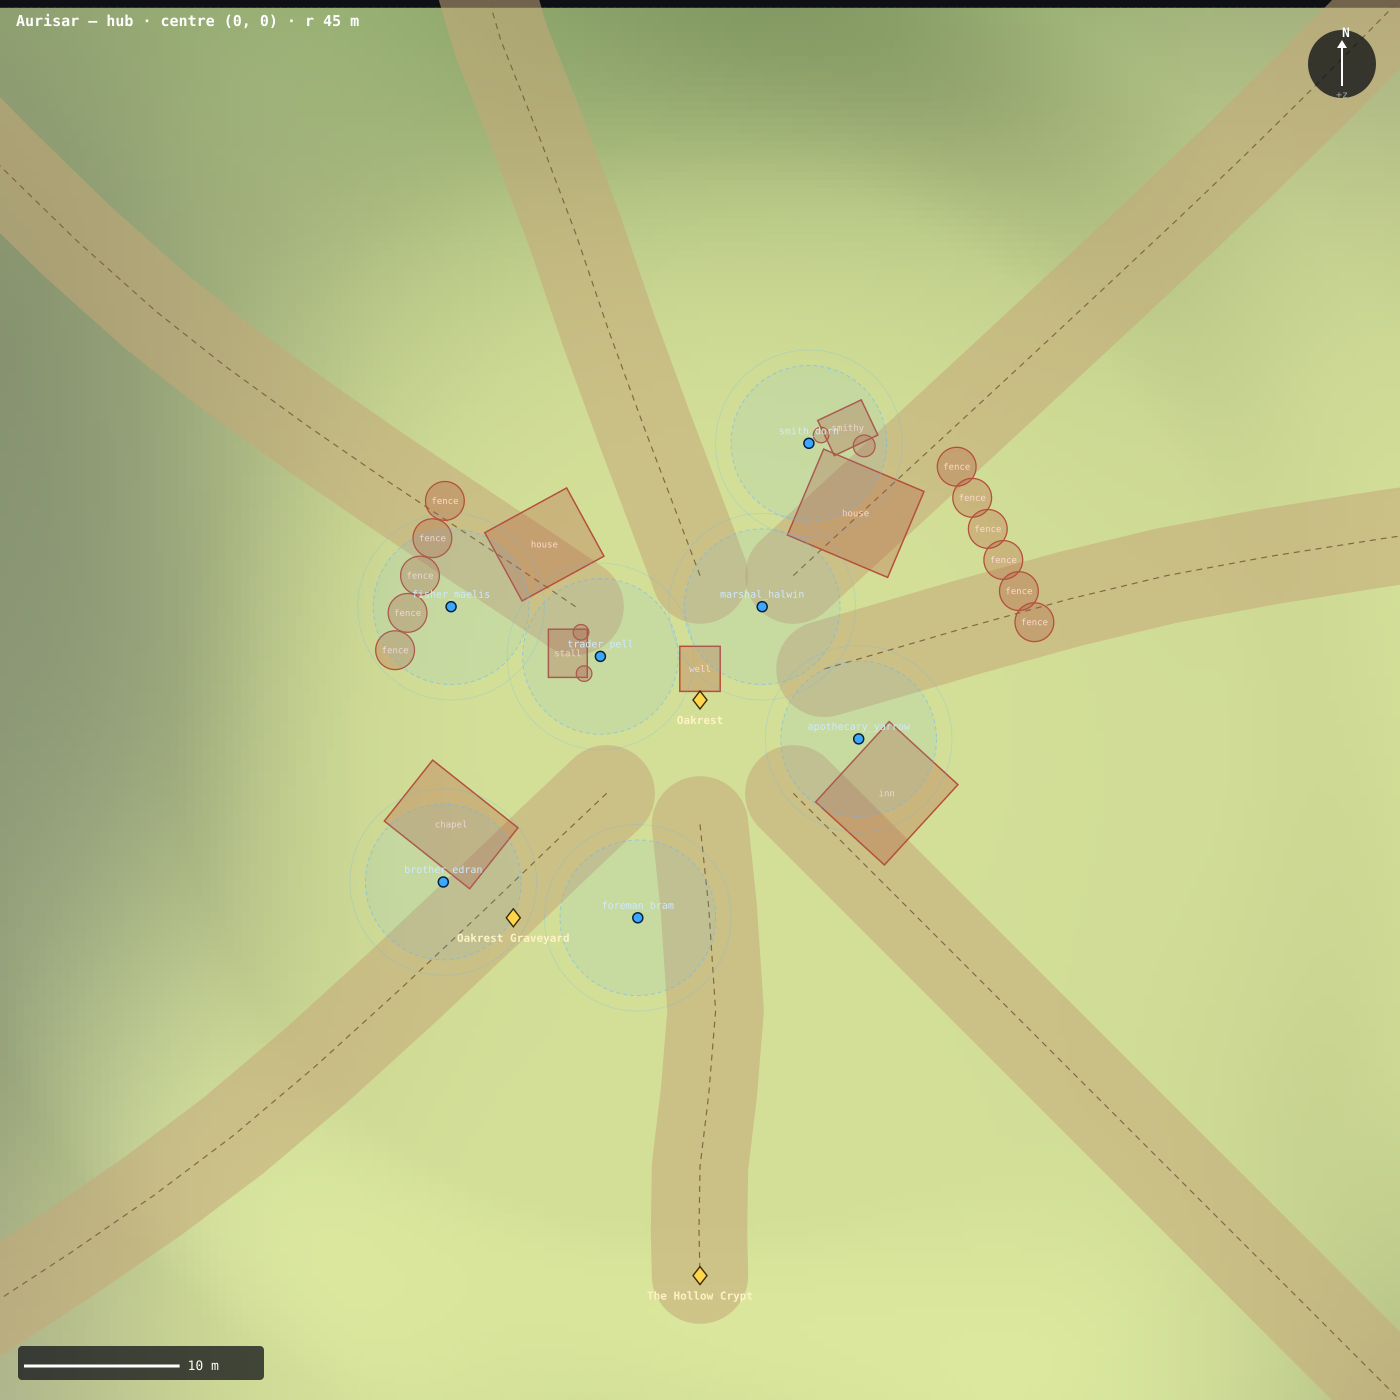
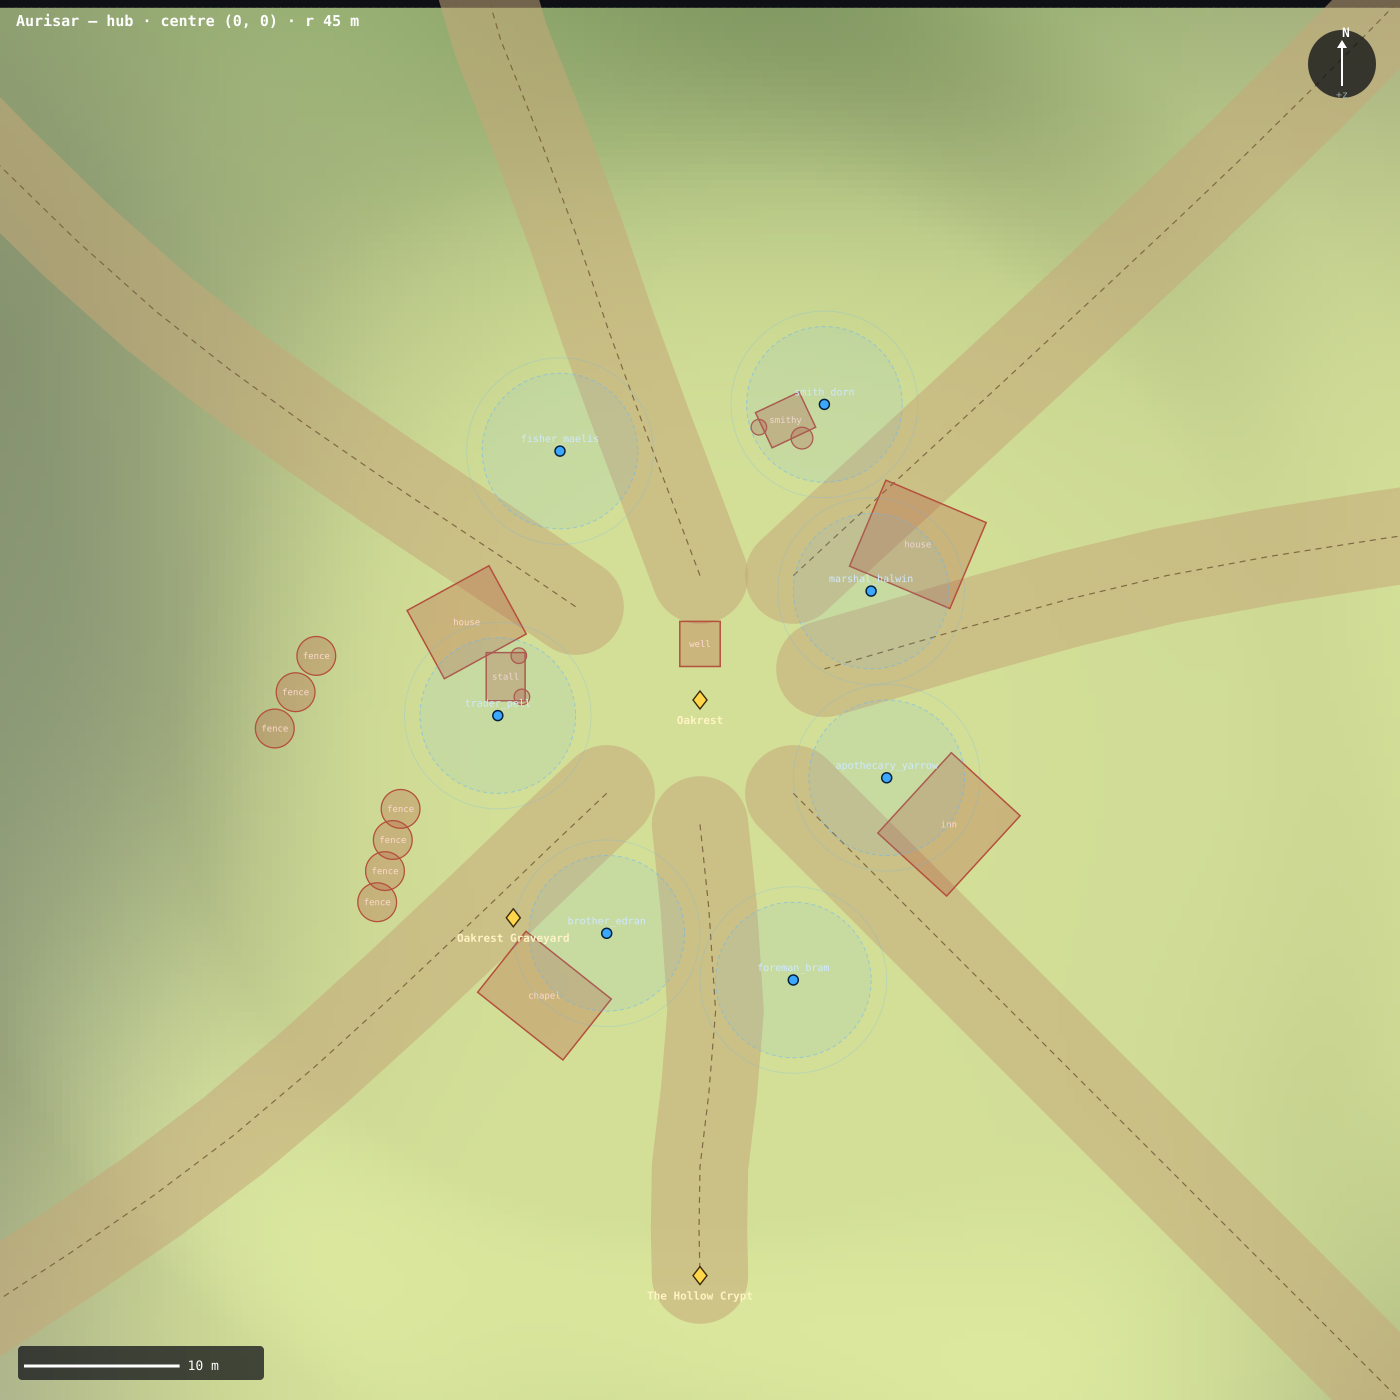
World design Batch E1f: the Oakrest relayout — zoned hub, invariants pinned
The hub was authored before roads had width and before props collided:
7 items sat inside carriageways (including a house 0.2 m from a road
centreline), the main quest-giver stood IN the road, 4 NPC pairs were
under the 12 m spacing target, and the two fence runs crossed road
throats as bead-chains.

The layout was designed against the road geometry, not eyeballed: the
seven spokes leave the hub at bearings 0/37/76/135/180/225/307, so the
zones sit in the open sectors between them (+z = north):

  smithy precinct    N    forge stall + Dorn at it
  quest court        NE   lodging house + Halwin beside it, off the road
  inn + apothecary   ESE  inn pushed out to (16,-8), Yarrow by the door
  arrivals plaza     S    respawn (0,0), well, campfire — kept OPEN
  chapel precinct    SSW  chapel now BESIDE the graveyard landmark it
                          serves (was 11 m away across a road), Edran in
                          the churchyard, Bram on the SSE flank
  market lane        W    stall + Pell + house, in the widest sector
  lakeside           NNW  Maelis on the Stillmere road

Every candidate was validated in a scratch evaluator BEFORE touching
content: sealed/clearance/road/spacing checks over the real collider and
trail math. Three iterations — the first placed four NPCs inside their
own buildings, the second put Halwin back in a carriageway and left a
fence in the west throat. The final layout scores clean: zero sealed,
[…]

diff --git a/src/features/world/content/__tests__/hubLayout.test.ts b/src/features/world/content/__tests__/hubLayout.test.ts
@@ -1,0 +1,102 @@
+/**
+ * Hub layout invariants (Batch E).
+ *
+ * The Oakrest relayout was designed against these rules and they are pinned
+ * here so a future placement edit cannot silently regress them. Everything
+ * reads the LIVE content — the worldgen config for roads, ZONE1_PROPS for
+ * footprints, ALL_NPCS for positions — so this suite is the arbiter for any
+ * "move X a bit" change, and `npm run plan -- --view hub` is how to look at
+ * what it is checking.
+ */
+import { describe, expect, it } from 'vitest';
+
+// eslint-disable-next-line -- JS module without types
+import { createWorldgen } from '../../worldgen/index.js';
+// eslint-disable-next-line -- JS module without types
+import { createPropColliders } from '../../systems/propColliders.js';
+// eslint-disable-next-line -- JSON module
+import zone1Config from '../../config/zone1_world.json';
+import { ZONE1_PROPS } from '../zones/zone1/props';
+import { ALL_NPCS } from '../index';
+
+const wg = createWorldgen(zone1Config);
+const P = createPropColliders(ZONE1_PROPS);
+const HALF_W = zone1Config.trailHalfWidth ?? 3.1;
+
+/** Distance from (x,z) to the nearest trail centreline. */
+function roadDist(x: number, z: number): number {
+  let best = Infinity;
+  for (const curve of wg.trailCurves) {
+    for (let i = 0; i < curve.length - 1; i++) {
+      const [ax, az] = curve[i];
+      const [bx, bz] = curve[i + 1];
+      const dx = bx - ax, dz = bz - az;
+      const l2 = dx * dx + dz * dz;
+      const t = l2 ? Math.max(0, Math.min(1, ((x - ax) * dx + (z - az) * dz) / l2)) : 0;
+      best = Math.min(best, Math.hypot(x - (ax + t * dx), z - (az + t * dz)));
+    }
+  }
+  return best;
+}
+
+const hubNpcs = ALL_NPCS.filter((n) => Math.hypot(n.pos.x, n.pos.z) < 45);
+
+describe('Oakrest hub layout', () => {
+  it('no NPC stands in a carriageway', () => {
+    for (const n of hubNpcs) {
+      const d = roadDist(n.pos.x, n.pos.z);
+      expect(d, `${n.id} is ${d.toFixed(1)}m from a road centreline (< ${HALF_W}m = in the road)`)
+        .toBeGreaterThanOrEqual(HALF_W);
+    }
+  });
+
+  it('no NPC is sealed inside a prop, with a real margin', () => {
+    // Margin matters: an NPC exactly on a collider edge re-seals under any
+    // future footprint tweak. 0.4 m of clearance on both axes.
+    for (const n of hubNpcs) {
+      const spots = [[0, 0], [0.4, 0], [-0.4, 0], [0, 0.4], [0, -0.4]];
+      for (const [dx, dz] of spots) {
+        expect(P.blocked(n.pos.x + dx, n.pos.z + dz), `${n.id} sealed or too tight at +(${dx},${dz})`)
+          .toBe(false);
+      }
+    }
+  });
+
+  it('every NPC pair keeps >= 12 m separation', () => {
+    for (let i = 0; i < hubNpcs.length; i++) {
+      for (let j = i + 1; j < hubNpcs.length; j++) {
+        const a = hubNpcs[i], b = hubNpcs[j];
+        const d = Math.hypot(a.pos.x - b.pos.x, a.pos.z - b.pos.z);
+        expect(d, `${a.id} <-> ${b.id} are ${d.toFixed(2)}m apart`).toBeGreaterThanOrEqual(12);
+      }
+    }
+  });
+
+  it('no prop collider blocks a carriageway near the hub', () => {
+    for (const c of P.colliders) {
+      if (Math.hypot(c.x, c.z) > 45) continue;
+      const d = roadDist(c.x, c.z);
+      expect(d, `${c.label} at (${c.x.toFixed(1)},${c.z.toFixed(1)}) is ${d.toFixed(1)}m from a road centreline`)
+        .toBeGreaterThanOrEqual(HALF_W);
+    }
+  });
+
+  it('the respawn point stays open with margin', () => {
+    // The server respawns every death to exactly (0,0).
+    for (const [dx, dz] of [[0, 0], [1, 0], [-1, 0], [0, 1], [0, -1]]) {
+      expect(P.blocked(dx, dz), `respawn blocked at (${dx},${dz})`).toBe(false);
+    }
+  });
+
+  it('the hub sits on the level shelf', () => {
+    // E1a levels the plateau to 1.5 m out to r34; every hub placement should
+    // be on it, not on the blend ramp where props tilt visibly.
+    for (const n of hubNpcs) {
+      expect(wg.surfaceY(n.pos.x, n.pos.z), `${n.id} off the hub shelf`).toBeCloseTo(1.5, 1);
+    }
+    for (const b of ZONE1_PROPS.buildings) {
+      if (Math.hypot(b.x, b.z) > 34) continue;
+      expect(wg.surfaceY(b.x, b.z), `building ${b.kind} off the shelf`).toBeCloseTo(1.5, 1);
+    }
+  });
+});

diff --git a/spacetimedb/src/content/zones/zone1/npcs.ts b/spacetimedb/src/content/zones/zone1/npcs.ts
@@ -19,7 +19,7 @@ export const NPCS: NpcDef[] = [
     zoneId: 1,
     name: 'Marshal Halwin',
     title: 'Town Marshal',
-    pos: { x: 4, z: 6 },
+    pos: { x: 11, z: 7 },
     facingRad: Math.PI,
     questIds: ['q_first_blood', 'q_wolves', 'q_greyjaw', 'q_bandits', 'q_ringleader'],
     greeting: 'Keep your blade close, $C. This valley is not what it was.',
@@ -29,7 +29,7 @@ export const NPCS: NpcDef[] = [
     zoneId: 1,
     name: 'Trader Pell',
     title: 'Provisioner',
-    pos: { x: -6.4, z: 2.8 },
+    pos: { x: -13, z: -1 },
     facingRad: Math.PI / 2,
     questIds: ['q_supplies'],
     greeting: 'Fresh bread, clean water, fair prices. What can I get you?',
@@ -40,7 +40,7 @@ export const NPCS: NpcDef[] = [
     zoneId: 1,
     name: 'Apothecary Yarrow',
     title: 'Herbalist',
-    pos: { x: 10.2, z: -2.5 },
+    pos: { x: 12, z: -5 },
     facingRad: -Math.PI / 2,
     questIds: ['q_boars', 'q_spiders'],
     greeting: 'Careful where you step in the eastern woods, friend.',
@@ -50,7 +50,7 @@ export const NPCS: NpcDef[] = [
     zoneId: 1,
     name: 'Brother Edran',
     title: 'Town Priest',
-    pos: { x: -16.5, z: -11.7 },
+    pos: { x: -6, z: -15 },
     facingRad: 0.8,
     questIds: ['q_bones', 'q_whispers', 'q_names_of_the_dead', 'q_silence_the_call', 'q_rite'],
     greeting: 'The Light keep you. Even the dead find no rest here of late.',
@@ -60,7 +60,7 @@ export const NPCS: NpcDef[] = [
     zoneId: 1,
     name: 'Smith Dorn',
     title: 'Armorer & Weaponsmith',
-    pos: { x: 7, z: 16.5 },
+    pos: { x: 8, z: 19 },
     facingRad: -2.7,
     questIds: [],
     greeting: 'Mind the sparks, $C. Good steel is the difference between a scar and a grave.',
@@ -75,7 +75,7 @@ export const NPCS: NpcDef[] = [
     zoneId: 1,
     name: 'Fisher Maelis',
     title: 'Old Salt',
-    pos: { x: -16, z: 6 },
+    pos: { x: -9, z: 16 },
     facingRad: -0.75,
     questIds: ['q_murlocs'],
     greeting: 'Grlmurlgrl— sorry, been listening to those fish-men too long.',
@@ -85,7 +85,7 @@ export const NPCS: NpcDef[] = [
     zoneId: 1,
     name: 'Foreman Bram',
     title: 'Mine Foreman',
-    pos: { x: -4, z: -14 },
+    pos: { x: 6, z: -18 },
     facingRad: -2.14,
     questIds: ['q_mine'],
     greeting: "Whole dig's crawling with those candle-headed vermin!",

diff --git a/src/features/world/content/zones/zone1/npcs.ts b/src/features/world/content/zones/zone1/npcs.ts
@@ -15,7 +15,7 @@ export const NPCS: NpcDef[] = [
     zoneId: 1,
     name: 'Marshal Halwin',
     title: 'Town Marshal',
-    pos: { x: 4, z: 6 },
+    pos: { x: 11, z: 7 },
     facingRad: Math.PI,
     questIds: ['q_first_blood', 'q_wolves', 'q_greyjaw', 'q_bandits', 'q_ringleader'],
     greeting: 'Keep your blade close, $C. This valley is not what it was.',
@@ -25,7 +25,7 @@ export const NPCS: NpcDef[] = [
     zoneId: 1,
     name: 'Trader Pell',
     title: 'Provisioner',
-    pos: { x: -6.4, z: 2.8 },
+    pos: { x: -13, z: -1 },
     facingRad: Math.PI / 2,
     questIds: ['q_supplies'],
     greeting: 'Fresh bread, clean water, fair prices. What can I get you?',
@@ -36,7 +36,7 @@ export const NPCS: NpcDef[] = [
     zoneId: 1,
     name: 'Apothecary Yarrow',
     title: 'Herbalist',
-    pos: { x: 10.2, z: -2.5 },
+    pos: { x: 12, z: -5 },
     facingRad: -Math.PI / 2,
     questIds: ['q_boars', 'q_spiders'],
     greeting: 'Careful where you step in the eastern woods, friend.',
@@ -46,7 +46,7 @@ export const NPCS: NpcDef[] = [
     zoneId: 1,
     name: 'Brother Edran',
     title: 'Town Priest',
-    pos: { x: -16.5, z: -11.7 },
+    pos: { x: -6, z: -15 },
     facingRad: 0.8,
     questIds: ['q_bones', 'q_whispers', 'q_names_of_the_dead', 'q_silence_the_call', 'q_rite'],
     greeting: 'The Light keep you. Even the dead find no rest here of late.',
@@ -56,7 +56,7 @@ export const NPCS: NpcDef[] = [
     zoneId: 1,
     name: 'Smith Dorn',
     title: 'Armorer & Weaponsmith',
-    pos: { x: 7, z: 16.5 },
+    pos: { x: 8, z: 19 },
     facingRad: -2.7,
     questIds: [],
     greeting: 'Mind the sparks, $C. Good steel is the difference between a scar and a grave.',
@@ -71,7 +71,7 @@ export const NPCS: NpcDef[] = [
     zoneId: 1,
     name: 'Fisher Maelis',
     title: 'Old Salt',
-    pos: { x: -16, z: 6 },
+    pos: { x: -9, z: 16 },
     facingRad: -0.75,
     questIds: ['q_murlocs'],
     greeting: 'Grlmurlgrl— sorry, been listening to those fish-men too long.',
@@ -81,7 +81,7 @@ export const NPCS: NpcDef[] = [
     zoneId: 1,
     name: 'Foreman Bram',
     title: 'Mine Foreman',
-    pos: { x: -4, z: -14 },
+    pos: { x: 6, z: -18 },
     facingRad: -2.14,
     questIds: ['q_mine'],
     greeting: "Whole dig's crawling with those candle-headed vermin!",

diff --git a/spacetimedb/src/content/zones/zone1/props.ts b/spacetimedb/src/content/zones/zone1/props.ts
@@ -19,27 +19,27 @@ export interface RotPos extends SimplePos { rot: number }
 
 export const ZONE1_PROPS = {
   buildings: [
-    { kind: 'house',  x: 10,  z: 12, w: 7, d: 6, rot: -0.4 },
-    { kind: 'house',  x: -10, z: 10, w: 6, d: 5, rot: 0.5 },
-    { kind: 'inn',    x: 12,  z: -6, w: 6, d: 7, rot: 2.4 },
-    { kind: 'chapel', x: -16, z: -8, w: 5, d: 7, rot: 0.9 },
+    { kind: 'house',  x: 14,  z: 10,  w: 7, d: 6, rot: -0.4 },
+    { kind: 'house',  x: -15, z: 5,   w: 6, d: 5, rot: 0.5 },
+    { kind: 'inn',    x: 16,  z: -8,  w: 6, d: 7, rot: 2.4 },
+    { kind: 'chapel', x: -10, z: -19, w: 5, d: 7, rot: 0.9 },
   ] as BuildingProp[],
 
-  wells: [{ x: 0, z: 2 }] as SimplePos[],
+  wells: [{ x: 0, z: 3.6 }] as SimplePos[],
 
   stalls: [
-    { x: -8.5, z: 3,    rot: Math.PI / 2 },
-    { x: 9.5,  z: 17.5, rot: -2.7, smithy: true }, // the smith's smithy
+    { x: -12.5, z: 1.5, rot: Math.PI / 2 },
+    { x: 5.5,  z: 18,   rot: -2.7, smithy: true }, // the smith's smithy
   ] as StallProp[],
 
   campfires: [
-    { x: 3, z: -4 }, { x: 65, z: -65 }, { x: 90, z: -90 },
+    { x: 2.5, z: -5 }, { x: 65, z: -65 }, { x: 90, z: -90 },
     { x: -80, z: -60 }, { x: -61, z: 56 },
   ] as SimplePos[],
 
   fences: [
-    { x1: 16,  z1: 16, x2: 22,  z2: 4 },
-    { x1: -16, z1: 14, x2: -20, z2: 2 },
+    { x1: -19, z1: -6, x2: -21, z2: -14 },
+    { x1: -24, z1: 4,  x2: -28, z2: -3 },
   ] as FenceLine[],
 
   tents: [

diff --git a/src/features/world/content/zones/zone1/props.ts b/src/features/world/content/zones/zone1/props.ts
@@ -15,27 +15,27 @@ export interface RotPos extends SimplePos { rot: number }
 
 export const ZONE1_PROPS = {
   buildings: [
-    { kind: 'house',  x: 10,  z: 12, w: 7, d: 6, rot: -0.4 },
-    { kind: 'house',  x: -10, z: 10, w: 6, d: 5, rot: 0.5 },
-    { kind: 'inn',    x: 12,  z: -6, w: 6, d: 7, rot: 2.4 },
-    { kind: 'chapel', x: -16, z: -8, w: 5, d: 7, rot: 0.9 },
+    { kind: 'house',  x: 14,  z: 10,  w: 7, d: 6, rot: -0.4 },
+    { kind: 'house',  x: -15, z: 5,   w: 6, d: 5, rot: 0.5 },
+    { kind: 'inn',    x: 16,  z: -8,  w: 6, d: 7, rot: 2.4 },
+    { kind: 'chapel', x: -10, z: -19, w: 5, d: 7, rot: 0.9 },
   ] as BuildingProp[],
 
-  wells: [{ x: 0, z: 2 }] as SimplePos[],
+  wells: [{ x: 0, z: 3.6 }] as SimplePos[],
 
   stalls: [
-    { x: -8.5, z: 3,    rot: Math.PI / 2 },
-    { x: 9.5,  z: 17.5, rot: -2.7, smithy: true }, // the smith's smithy
+    { x: -12.5, z: 1.5, rot: Math.PI / 2 },
+    { x: 5.5,  z: 18,   rot: -2.7, smithy: true }, // the smith's smithy
   ] as StallProp[],
 
   campfires: [
-    { x: 3, z: -4 }, { x: 65, z: -65 }, { x: 90, z: -90 },
+    { x: 2.5, z: -5 }, { x: 65, z: -65 }, { x: 90, z: -90 },
     { x: -80, z: -60 }, { x: -61, z: 56 },
   ] as SimplePos[],
 
   fences: [
-    { x1: 16,  z1: 16, x2: 22,  z2: 4 },
-    { x1: -16, z1: 14, x2: -20, z2: 2 },
+    { x1: -19, z1: -6, x2: -21, z2: -14 },
+    { x1: -24, z1: 4,  x2: -28, z2: -3 },
   ] as FenceLine[],
 
   tents: [
